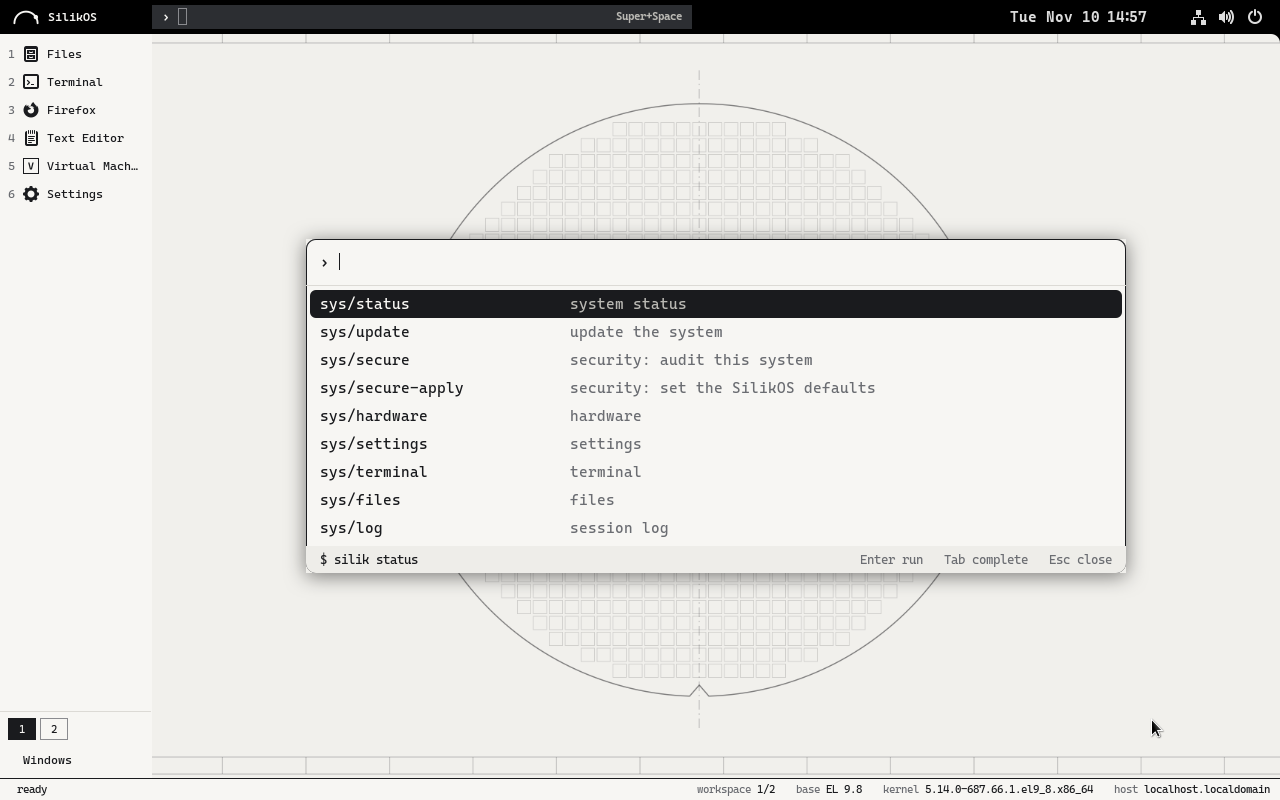
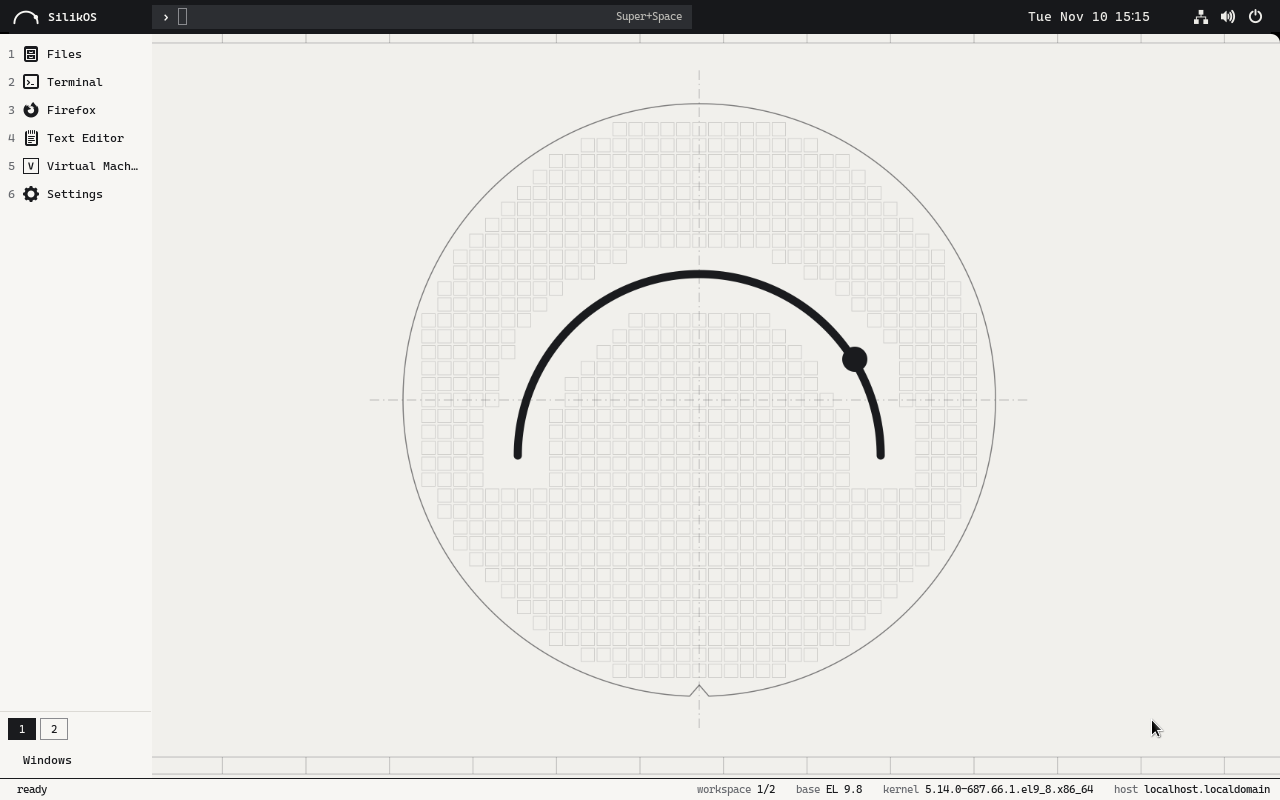
Second complete installation: 38 checks ok; the test script no longer fails a clean report
- tests/install/run.sh: listing the failures of a report that has none ended the script with an error
- STATUS: the fixes of the first installation seen on the second (themes made on the installed system, no welcome
  dialog, Start after the Super key); README shows the installed system's screens

Claude-Session: https://claude.ai/code/session_017vAYsxEtDVxrRbukVjuokZ

diff --git a/docs/STATUS.md b/docs/STATUS.md
@@ -59,12 +59,15 @@ Docker Hub, repo.almalinux.org, dl.fedoraproject.org and vault.centos.org).
 | The installed desktop on its screen | the same run, the virtual machine's screen saved (`docs/img/installed.png`; the last run's pictures: branch `ci-results`) | the Silik layout in a real session: title bar with the mark and the command line, the rail (Files, Terminal, Firefox, Text Editor, Virtual Machine Manager with its framed initial, Settings), workspaces, status bar, the wafer background; **Super+Space opens the COMMAND bar** (through gnome-settings-daemon) with the `sys/secure` entries |
 | `silik secure status` on an installed system | the same run | 9 ok, 1 warn, 2 bad, 1 unknown: bad = the disk is not encrypted (the test does not encrypt) and the test's own automatic login; warn = Secure Boot not possible (the test machine starts through BIOS); unknown = the screen lock, asked as root |
 
-Found by the first complete installation and fixed (the next run is the test of the fixes): **no shell theme was made, and the
-GTK theme was the fallback**: the theme makers called `gresource`, which belongs to `glib2-devel` on EL 9 and is not on an
-installed system (the test container had it); they now read the stylesheets through python3-gobject
-(`resource-extract`), a boot-time unit makes a missing theme, and the installed-system checks look at both. The base's
-"Welcome, take the tour" dialog opened on the first login: turned off. The first check line was lost among the boot
-messages on the serial port: each line now starts on its own.
+Found by the first complete installation and fixed, **and seen fixed in the second** (run 42840361656, commit 5f1d4f6:
+38 checks ok, none failed): no shell theme had been made and the GTK theme was the fallback, because the theme makers
+called `gresource`, which belongs to `glib2-devel` on EL 9 and is not on an installed system (the test container had
+it). They now read the stylesheets through python3-gobject (`resource-extract`), a boot-time unit makes a missing
+theme, and the installed system checks that both were made from the real stylesheets, without an import and without
+the accent blue. The base's "Welcome, take the tour" dialog opened on the first login: turned off. In the second run
+the pictures show the desktop with the shell theme, **Start opened by the Super key** with the full application set and
+its categories (`docs/img/installed-start.png`), and the COMMAND bar after Super+Space. That run was still marked
+failed by a mistake of the test script after a clean report (fixed).
 
 Found by booting the ISO and fixed: the installer did not bring the network up by itself, so the package sources
 failed until it was turned on by hand (the kickstart now activates a wired connection).
@@ -76,8 +79,7 @@ Two bugs were found by running `silik eda` for real and fixed: the vault reposit
 
 | What | Why | Who can |
 |---|---|---|
-| The installation test's own later parts: Start after the Super key on the installed system (the picture was taken behind the base's welcome dialog, now off), a Windows program in the installed system (no Wine on the ISO yet), the fixes above | the first run was before them | the next runs of the workflow CI (branch `ci-results`) |
-| `silik-wine` (Wine 11.0 built on EL 9) | not built: about an hour and several GB, and dl.winehq.org is not reachable from this machine | GitHub Actions, workflow Wine (started by hand); its package then goes into the CI's ISO and the installation test runs a Windows program through `silik win open` in its sandbox on the real kernel with SELinux |
+| A Windows program in the installed system (the sandbox on EL 9's kernel with SELinux) | no Wine on the ISO yet: `silik-wine` built on GitHub in 30 minutes, its trial of two Windows programs failed for a reason not yet read (the trial now reports it) | the next runs of the workflows Wine and CI |
 | BIOS (non-UEFI) boot of the ISO | not tried | a VM |
 | The boot splash (plymouth theme `silikos`) on a screen, the About logo, the login logo, the firmware's boot entry name | set and listed, not seen: no real boot here | after the first installation |
 | Places that still name the base | by design: the package source URL in the installer, repository names in `dnf`, `/etc/redhat-release`, `ID=` | — |

diff --git a/README.md b/README.md
@@ -17,9 +17,11 @@ an EL9 system. It is a try: `docs/STATUS.md` says what has been run and what has
 | Windows | a double-click on an `.exe` runs it in a sandbox that does not see the rest of the home folder (`silik win open`); installed programs are applications of the desktop; a Windows virtual machine for what Wine cannot run. **Wine itself is not installable from EPEL on EL 9.8 today: see `docs/STATUS.md`** | `packages/silik-win`, `docs/WINDOWS.md` |
 | Name and look | os-release display names, boot menu, boot splash, login logo, backgrounds; the installer's screens | `packages/silikos-branding`, `installer/`, `brand/` |
 
-![SilikOS installed by the CI, the COMMAND bar open](docs/img/installed.png)
+![SilikOS as installed by the CI](docs/img/installed.png)
 
-The system as installed by the CI in a virtual machine on 10/11/2026 (real session, Super+Space pressed).
+![Start, after the Super key, on the installed system](docs/img/installed-start.png)
+
+The system as installed by the CI in a virtual machine on 10/11/2026 (a real session; the pictures of the last run: branch `ci-results`).
 
 ![The SilikOS desktop](docs/img/desktop.png)
 
